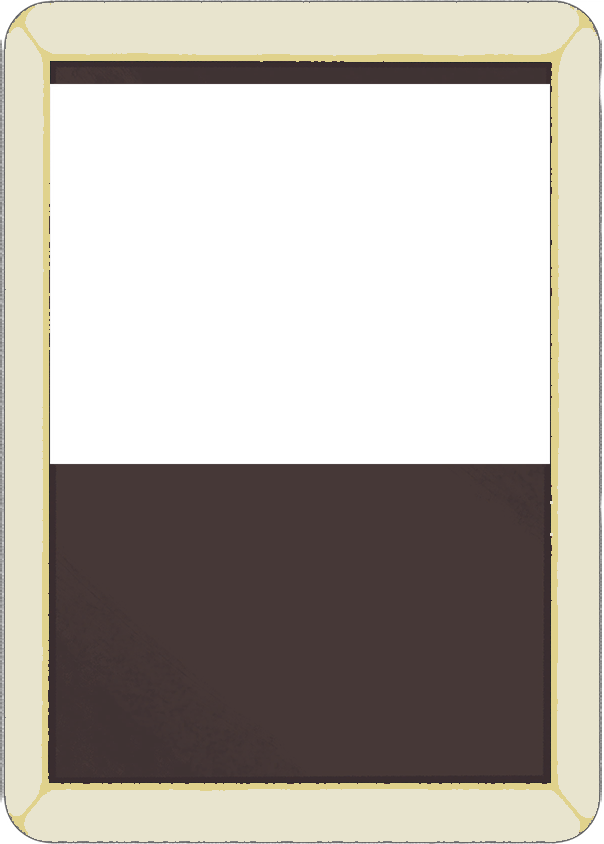
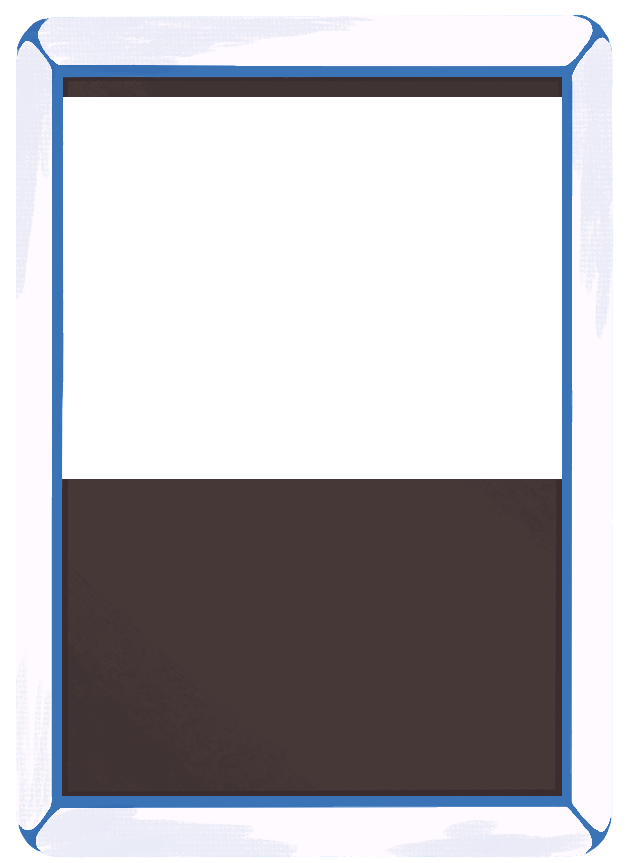
holy chamber bug fixed, seeker of truth coded but untested, jsons for localization modified

diff --git a/InscribedCode/Cards/Uncommon/ThunderRuneCard.cs b/InscribedCode/Cards/Uncommon/ThunderRuneCard.cs
@@ -1,6 +1,8 @@
-using MegaCrit.Sts2.Core.Commands;
+using Inscribed.InscribedCode.Runes;
+using MegaCrit.Sts2.Core.Commands;
 using MegaCrit.Sts2.Core.Entities.Cards;
 using MegaCrit.Sts2.Core.GameActions.Multiplayer;
+using MegaCrit.Sts2.Core.HoverTips;
 using MegaCrit.Sts2.Core.Localization.DynamicVars;
 
 namespace Inscribed.InscribedCode.Cards.uncommon;
@@ -10,6 +12,11 @@ public class ThunderRuneCard() : InscribedCard(1,
     TargetType.Self)
 {
     protected override IEnumerable<DynamicVar> CanonicalVars => [];
+    
+    protected override IEnumerable<IHoverTip> ExtraHoverTips =>
+    [
+        HoverTipFactory.FromOrb<ThunderRune>()
+    ];
 
     protected override async Task OnPlay(
         PlayerChoiceContext choiceContext,

diff --git a/InscribedCode/Cards/Uncommon/LightRuneCard.cs b/InscribedCode/Cards/Uncommon/LightRuneCard.cs
@@ -1,6 +1,8 @@
-using MegaCrit.Sts2.Core.Commands;
+using Inscribed.InscribedCode.Runes;
+using MegaCrit.Sts2.Core.Commands;
 using MegaCrit.Sts2.Core.Entities.Cards;
 using MegaCrit.Sts2.Core.GameActions.Multiplayer;
+using MegaCrit.Sts2.Core.HoverTips;
 using MegaCrit.Sts2.Core.Localization.DynamicVars;
 
 namespace Inscribed.InscribedCode.Cards.uncommon;
@@ -10,6 +12,11 @@ public class LightRuneCard() : InscribedCard(1,
     TargetType.Self)
 {
     protected override IEnumerable<DynamicVar> CanonicalVars => [];
+    
+    protected override IEnumerable<IHoverTip> ExtraHoverTips =>
+    [
+        HoverTipFactory.FromOrb<LightRune>()
+    ];
 
     protected override async Task OnPlay(
         PlayerChoiceContext choiceContext,

diff --git a/InscribedCode/Cards/Common/DarkRuneCard.cs b/InscribedCode/Cards/Common/DarkRuneCard.cs
@@ -1,6 +1,8 @@
-using MegaCrit.Sts2.Core.Commands;
+using Inscribed.InscribedCode.Runes;
+using MegaCrit.Sts2.Core.Commands;
 using MegaCrit.Sts2.Core.Entities.Cards;
 using MegaCrit.Sts2.Core.GameActions.Multiplayer;
+using MegaCrit.Sts2.Core.HoverTips;
 using MegaCrit.Sts2.Core.Localization.DynamicVars;
 
 namespace Inscribed.InscribedCode.Cards.Common;
@@ -11,6 +13,11 @@ public class DarkRuneCard() : InscribedCard(1,
 {
     protected override IEnumerable<DynamicVar> CanonicalVars => [];
 
+    protected override IEnumerable<IHoverTip> ExtraHoverTips =>
+    [
+        HoverTipFactory.FromOrb<DarkRune>()
+    ];
+    
     protected override async Task OnPlay(
         PlayerChoiceContext choiceContext,
         CardPlay play)

diff --git a/InscribedCode/Character/Inscribed.cs b/InscribedCode/Character/Inscribed.cs
@@ -66,4 +66,15 @@ public class Inscribed : PlaceholderCharacterModel
     public override string CustomCharacterSelectLockedIconPath => "char_select_char_name_locked.png".CharacterUiPath();
     public override string CustomMapMarkerPath => "map_marker_char_name.png".CharacterUiPath();
     public override string CustomVisualPath => "res://Inscribed/scenes/inscribed.tscn";
+    
+    private static string EnergyCounterPaths(int i)
+    {
+        return "res://Inscribed/images/charui/inscribed_orb_layer_" + i + ".png";
+    }
+    public override CustomEnergyCounter? CustomEnergyCounter => new CustomEnergyCounter(
+        (Func<int, string>)EnergyCounterPaths,
+        new Color("2e2e2e"),
+        new Color("2e2e2e")
+    );
+    
 }

diff --git a/InscribedCode/Cards/Common/FireRuneCard.cs b/InscribedCode/Cards/Common/FireRuneCard.cs
@@ -1,6 +1,8 @@
-using MegaCrit.Sts2.Core.Commands;
+using Inscribed.InscribedCode.Runes;
+using MegaCrit.Sts2.Core.Commands;
 using MegaCrit.Sts2.Core.Entities.Cards;
 using MegaCrit.Sts2.Core.GameActions.Multiplayer;
+using MegaCrit.Sts2.Core.HoverTips;
 using MegaCrit.Sts2.Core.Localization.DynamicVars;
 
 namespace Inscribed.InscribedCode.Cards.Common;
@@ -10,6 +12,11 @@ public class FireRuneCard() : InscribedCard(1,
     TargetType.Self)
 {
     protected override IEnumerable<DynamicVar> CanonicalVars => [];
+    
+    protected override IEnumerable<IHoverTip> ExtraHoverTips =>
+    [
+        HoverTipFactory.FromOrb<FireRune>()
+    ];
 
     protected override async Task OnPlay(
         PlayerChoiceContext choiceContext,

diff --git a/InscribedCode/Cards/Rare/EarthRuneCard.cs b/InscribedCode/Cards/Rare/EarthRuneCard.cs
@@ -1,6 +1,8 @@
-using MegaCrit.Sts2.Core.Commands;
+using Inscribed.InscribedCode.Runes;
+using MegaCrit.Sts2.Core.Commands;
 using MegaCrit.Sts2.Core.Entities.Cards;
 using MegaCrit.Sts2.Core.GameActions.Multiplayer;
+using MegaCrit.Sts2.Core.HoverTips;
 using MegaCrit.Sts2.Core.Localization.DynamicVars;
 
 namespace Inscribed.InscribedCode.Cards.rare;
@@ -11,6 +13,11 @@ public class EarthRuneCard() : InscribedCard(1,
     TargetType.Self)
 {
     protected override IEnumerable<DynamicVar> CanonicalVars => [];
+    
+    protected override IEnumerable<IHoverTip> ExtraHoverTips =>
+    [
+        HoverTipFactory.FromOrb<EarthRune>()
+    ];
 
     protected override async Task OnPlay(
         PlayerChoiceContext choiceContext,

diff --git a/InscribedCode/Cards/Uncommon/IceRuneCard.cs b/InscribedCode/Cards/Uncommon/IceRuneCard.cs
@@ -1,6 +1,8 @@
-using MegaCrit.Sts2.Core.Commands;
+using Inscribed.InscribedCode.Runes;
+using MegaCrit.Sts2.Core.Commands;
 using MegaCrit.Sts2.Core.Entities.Cards;
 using MegaCrit.Sts2.Core.GameActions.Multiplayer;
+using MegaCrit.Sts2.Core.HoverTips;
 using MegaCrit.Sts2.Core.Localization.DynamicVars;
 
 namespace Inscribed.InscribedCode.Cards.uncommon;
@@ -10,6 +12,11 @@ public class IceRuneCard() : InscribedCard(1,
     TargetType.Self)
 {
     protected override IEnumerable<DynamicVar> CanonicalVars => [];
+    
+    protected override IEnumerable<IHoverTip> ExtraHoverTips =>
+    [
+        HoverTipFactory.FromOrb<IceRune>()
+    ];
 
     protected override async Task OnPlay(
         PlayerChoiceContext choiceContext,

diff --git a/InscribedCode/Relics/HolyChamber.cs b/InscribedCode/Relics/HolyChamber.cs
@@ -3,6 +3,7 @@ using Inscribed.InscribedCode.Character;
 using Inscribed.InscribedCode.Relics;
 using Inscribed.InscribedCode.Runes;
 using MegaCrit.Sts2.Core.Commands;
+using MegaCrit.Sts2.Core.Entities.Actions;
 using MegaCrit.Sts2.Core.Entities.Players;
 using MegaCrit.Sts2.Core.Entities.Relics;
 using MegaCrit.Sts2.Core.GameActions.Multiplayer;
@@ -18,6 +19,11 @@ public class HolyChamber() : InscribedRelic
 
     public override async Task BeforePlayPhaseStart(PlayerChoiceContext choiceContext, Player player)
     {
+        if (player.Creature.CombatState.RoundNumber != 1)
+        {
+            return;
+        }
+        
         Random rnd = new();
         int orbNo = rnd.Next(1, 6);
         

diff --git a/InscribedCode/Cards/Basic/DefendInscribed.cs b/InscribedCode/Cards/Basic/DefendInscribed.cs
@@ -1,7 +1,9 @@
 using BaseLib.Utils;
 using Inscribed.InscribedCode.Cards;
+using Inscribed.InscribedCode.Runes;
 using MegaCrit.Sts2.Core.Entities.Cards;
 using MegaCrit.Sts2.Core.GameActions.Multiplayer;
+using MegaCrit.Sts2.Core.HoverTips;
 using MegaCrit.Sts2.Core.Localization.DynamicVars;
 using MegaCrit.Sts2.Core.ValueProps;
 
@@ -14,6 +16,7 @@ public class DefendInscribed() : InscribedCard(1,
 {
     protected override HashSet<CardTag> CanonicalTags => [CardTag.Defend];
     protected override IEnumerable<DynamicVar> CanonicalVars => [new BlockVar(5, ValueProp.Move)];
+    
 
     protected override async Task OnPlay(
         PlayerChoiceContext choiceContext,

diff --git a/InscribedCode/Relics/SeekerOfTruth.cs b/InscribedCode/Relics/SeekerOfTruth.cs
@@ -1,0 +1,24 @@
+using BaseLib.Utils;
+using Inscribed.InscribedCode.Character;
+using Inscribed.InscribedCode.Relics;
+using MegaCrit.Sts2.Core.Commands;
+using MegaCrit.Sts2.Core.Entities.Relics;
+
+namespace Inscribed.InscribedCode.Relics;
+
+
+[Pool(typeof(InscribedRelicPool))]
+public class SeekerOfTruth() : InscribedRelic
+{
+    public override RelicRarity Rarity =>
+        RelicRarity.Rare;
+
+    public override Task AfterObtained()
+    {
+        if(this.Owner.BaseOrbSlotCount <= 3)
+        {
+            OrbCmd.AddSlots(this.Owner, 2);
+        }
+        return Task.CompletedTask;
+    }
+}

diff --git a/InscribedCode/Character/InscribedCardPool.cs b/InscribedCode/Character/InscribedCardPool.cs
@@ -12,6 +12,7 @@ public class InscribedCardPool : CustomCardPoolModel
 
     public override string BigEnergyIconPath => "charui/big_energy.png".ImagePath();
     public override string TextEnergyIconPath => "charui/text_energy.png".ImagePath();
+    
 
 
     /* These HSV values will determine the color of your card back.
